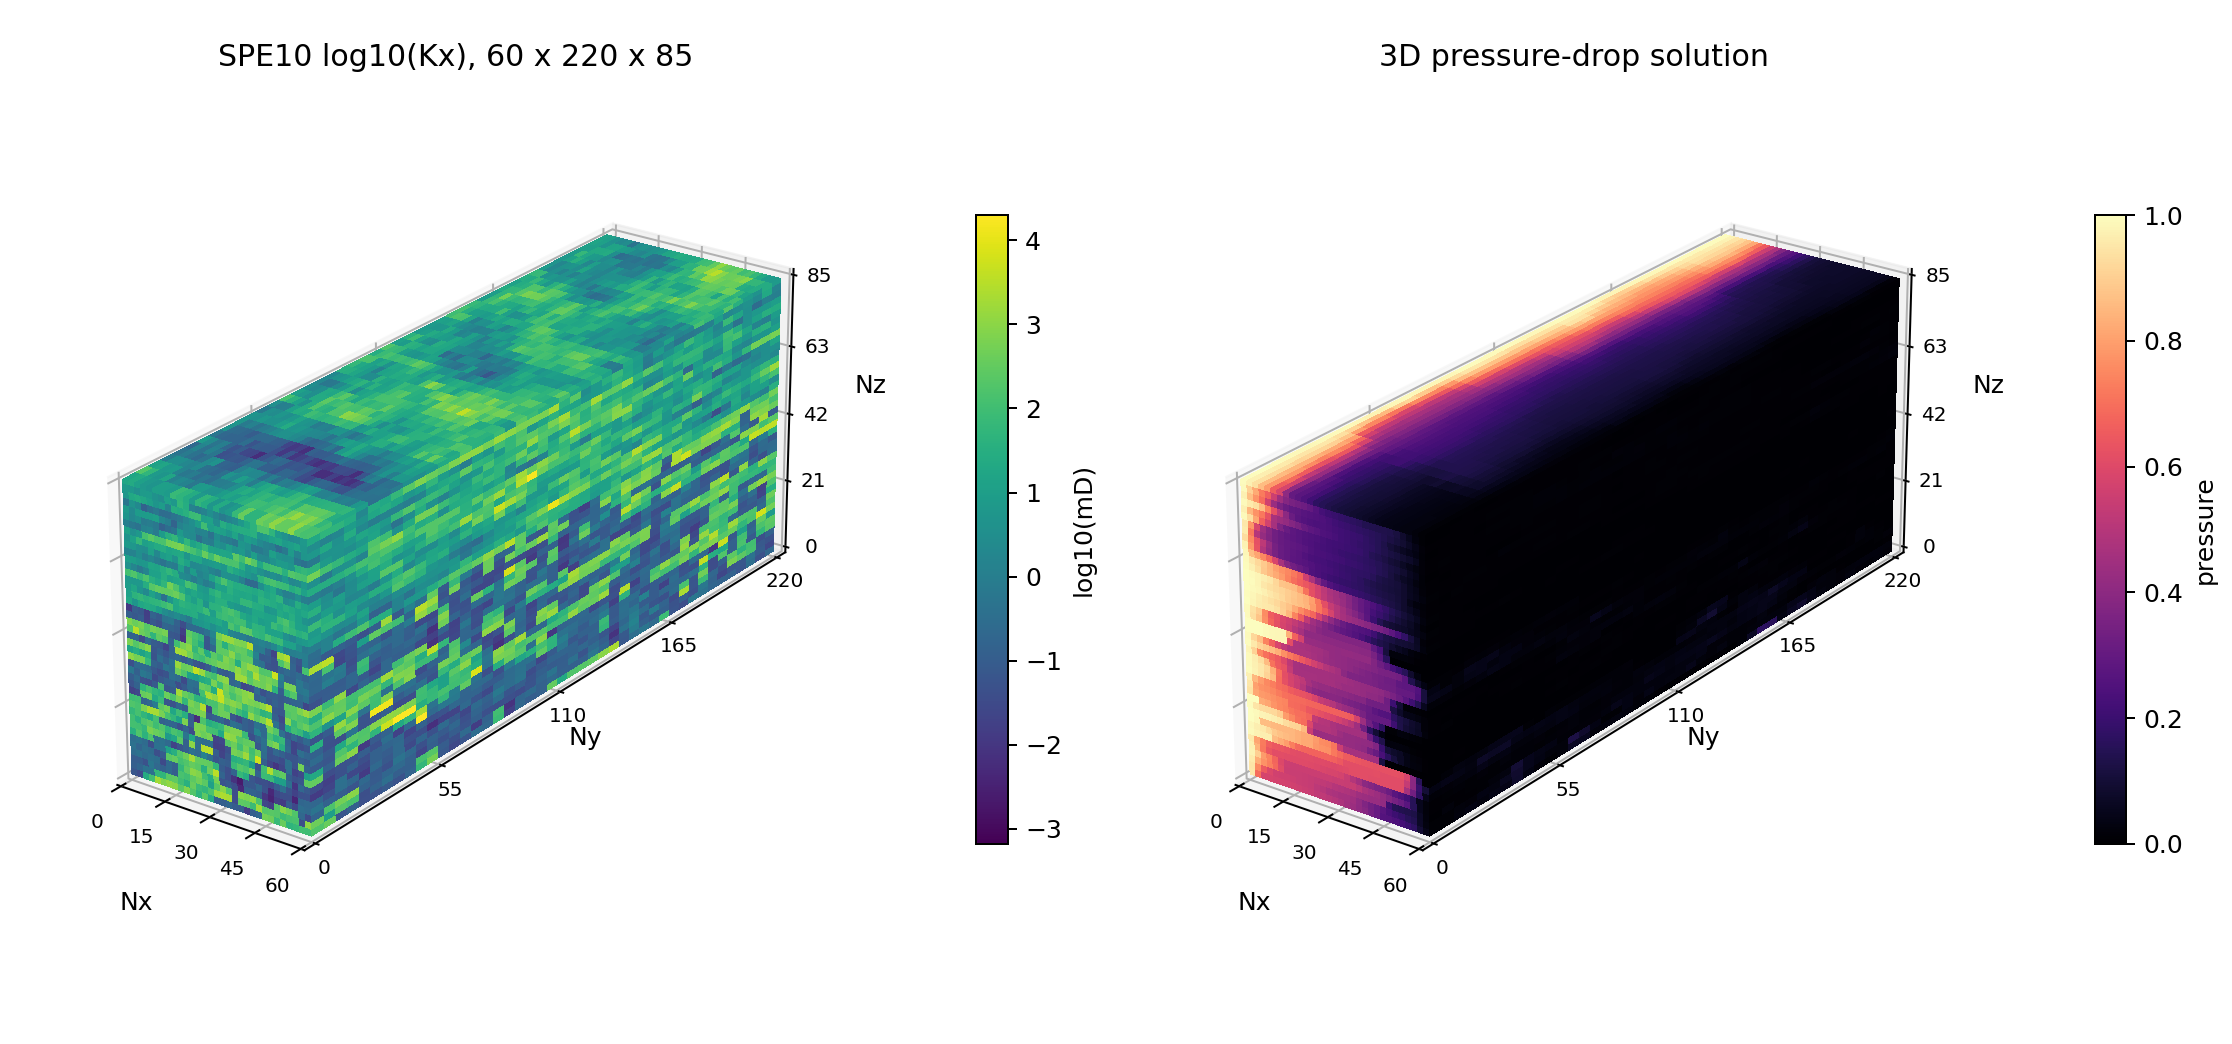
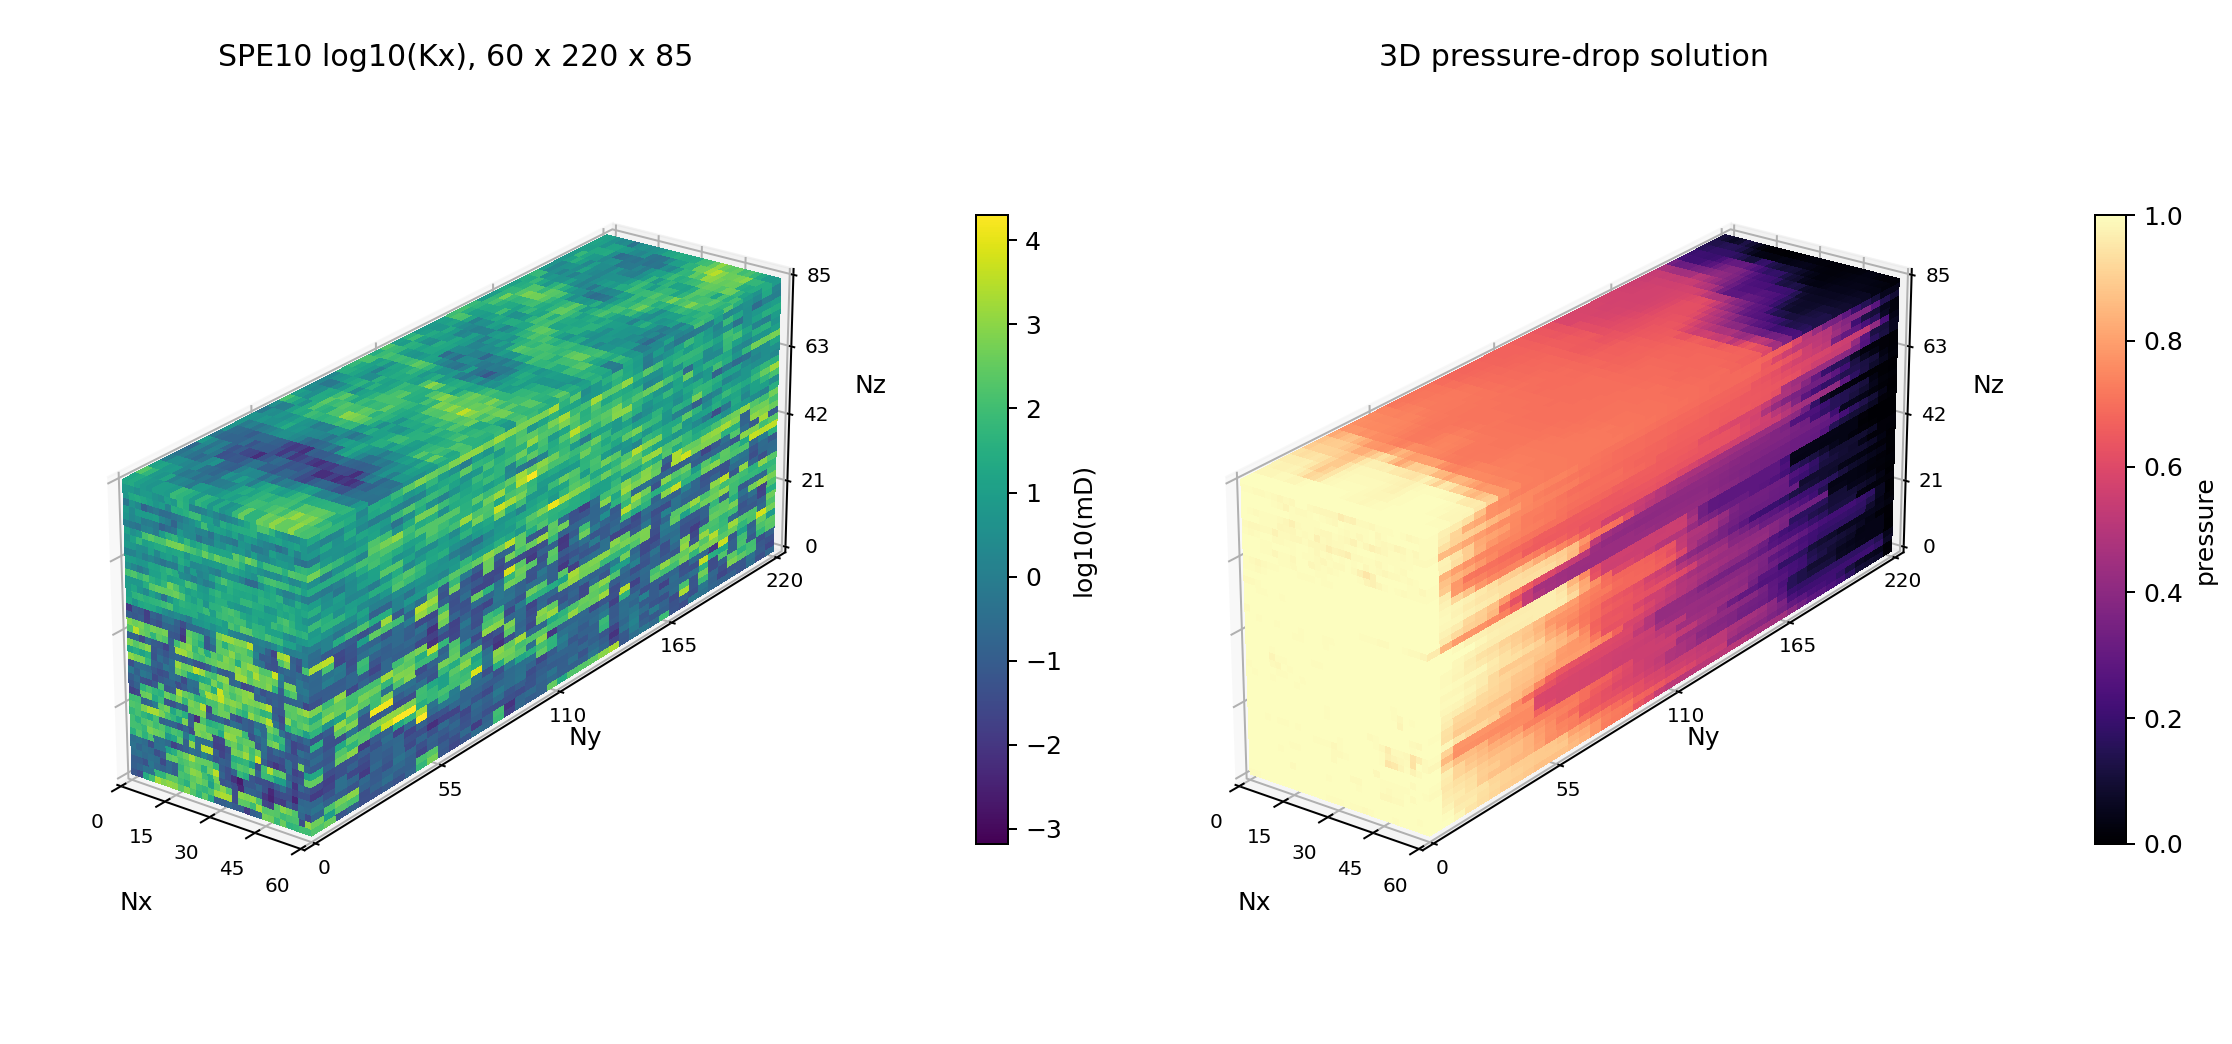
Update SPE10 setup and problem description/results

Changed region(s): [[0.5565, 0.2146, 0.8656, 0.7969]]

diff --git a/docs/usrman-src/library_examples.rst b/docs/usrman-src/library_examples.rst
@@ -491,7 +491,9 @@ text file containing either one scalar permeability per source cell or three
 component blocks ``Kx``, ``Ky``, and ``Kz``. If ``--K-file-grid`` is omitted,
 the source grid is assumed to match ``-n`` exactly. If a source grid is supplied,
 the example samples the source field at cell centers onto the requested mesh.
-This is useful for experiments on a coarser mesh than the input data.
+This is useful for experiments on a coarser mesh than the input data, and also
+for refinement studies that evaluate scalability across a sequence of mesh
+resolutions.
 
 SPE10 model 2 permeability files use a ``60 x 220 x 85`` source grid with
 three component blocks. The helper script downloads and unpacks that dataset
@@ -510,7 +512,10 @@ Then run a coarse heterogeneous solve, for example:
       --K-file data/spe10_case2a/spe_perm.dat \
       --K-file-grid 60 220 85 \
       --K-file-k-order top-down \
-      -g x -v 0
+      -g y -v 0
+
+The ``-g y`` option imposes the pressure gradient in the y-direction, which is
+the standard SPE10 setup.
 
 For heterogeneous inputs, the driver reports successful solver completion
 rather than an analytic pressure error because the default linear pressure
@@ -539,7 +544,8 @@ VTK results to ``examples/src/C_darcy/reproduce-out/darcy_spe10.pvti`` plus one
 
    SPE10 case 2a layer visualization. Left: ``log10(Kx)`` on one physical
    layer. Right: pressure-drop solution on the same layer with unit pressure on
-   the low-x side, zero pressure on the high-x side, and no-flow y boundaries.
+   the low-y side, zero pressure on the high-y side, and no-flow x/z
+   boundaries.
 
 Use ``--figure-mode 3d`` to generate a three-dimensional view of the full
 problem, or ``--figure-mode both`` to generate both figures:
@@ -564,8 +570,8 @@ also be run directly:
    Full-volume SPE10 case 2a visualization using full-resolution exterior
    surfaces from the C Darcy VTK results. Left: ``log10(Kx)`` from the
    ``60 x 220 x 85`` permeability field. Right: pressure-drop solution on the
-   same full-resolution grid, with unit pressure on the low-x side, zero
-   pressure on the high-x side, and no-flow y/z boundaries.
+   same full-resolution grid, with unit pressure on the low-y side, zero
+   pressure on the high-y side, and no-flow x/z boundaries.
 
 The performance run uses the C mixed RT0/P0 driver:
 
@@ -578,7 +584,7 @@ The performance run uses the C mixed RT0/P0 driver:
       --K-file-grid 60 220 85 \
       --K-file-k-order top-down \
       --output examples/src/C_darcy/reproduce-out/darcy_spe10.vti \
-      -g x -v 1
+      -g y -v 1
 
 The figures are generated from the C VTK output with NumPy and Matplotlib, so
 reproducing the images does not require VTK or ParaView. Set